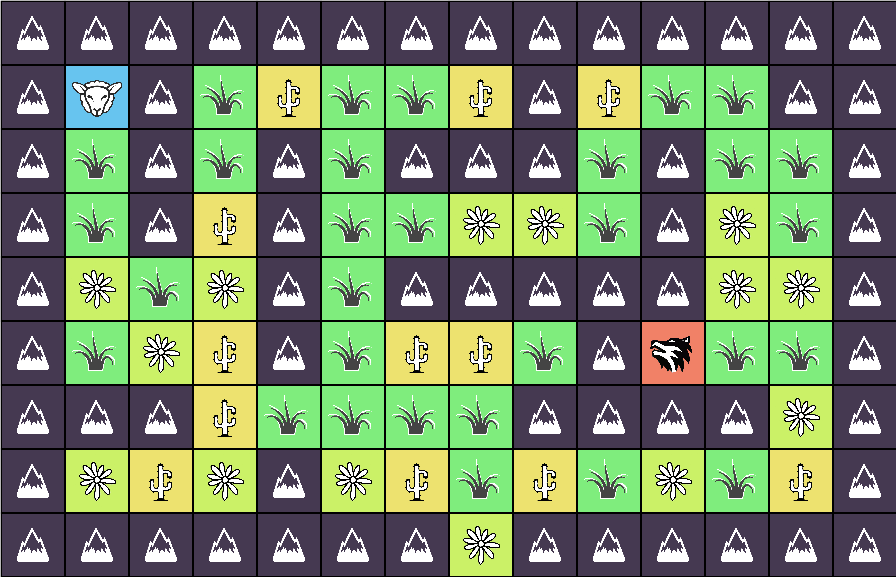
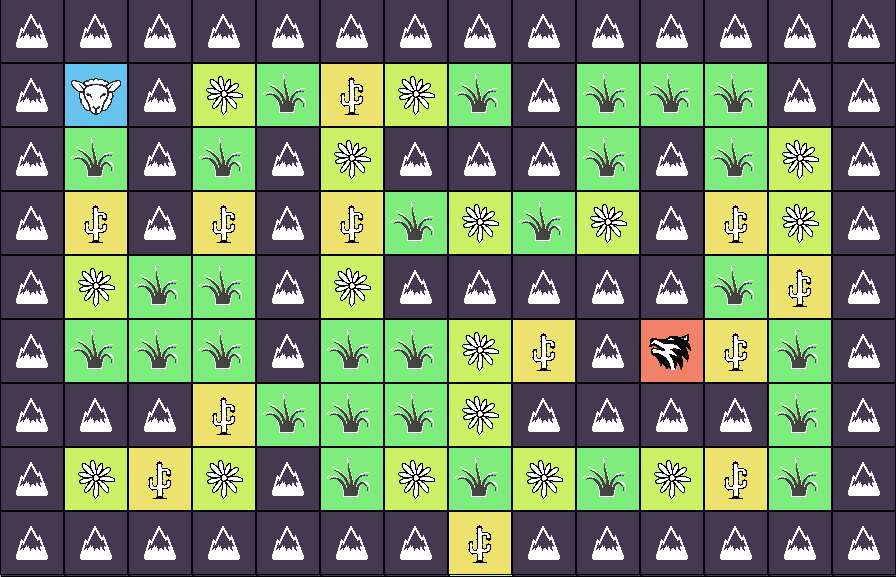
Version sae 202 : Ajout d'une nouvelle version de sauvegarde

diff --git a/src/main/java/jeu/AffichageJeu.java b/src/main/java/jeu/AffichageJeu.java
@@ -117,7 +117,7 @@ public class AffichageJeu extends Scene {
 
     }
 
-    public AffichageJeu(Stage stage, String adressePlateau){
+    public AffichageJeu(Stage stage, String adressePlateau, boolean sauvegardeVientDuFichierResources){
         super(new AnchorPane(), 1280,720);
         panneauTemporaire = (AnchorPane) getRoot();
         mainStage = stage;
@@ -127,8 +127,11 @@ public class AffichageJeu extends Scene {
         //On initie les actions utilisateurs
         controleur = new Controleur(this);
         try {
-            //this.controleur.jeu.reprendreSauvegarde(adressePlateau);
-            this.controleur.jeu.reprendreSauvegarde2(adressePlateau);
+            if (sauvegardeVientDuFichierResources){
+                this.controleur.jeu.reprendreSauvegardeViaFichierResources(adressePlateau);
+            } else {
+                this.controleur.jeu.reprendreSauvegarde(adressePlateau);
+            }
         } catch (IOException e) {
             String texte = "Erreur de lecture : "+"\n"+"" +
                     "Impossible de lire le fichier de sauvegarde.";

diff --git a/src/main/java/menuSelectionPlateau/SelectionControleur.java b/src/main/java/menuSelectionPlateau/SelectionControleur.java
@@ -54,7 +54,7 @@ public class SelectionControleur {
                 //Si l'utilisateur a ouvert un fichier
                 if (fichier != null){
                     //Affiche visuellement le plateau
-                    AffichageJeu affichageJeu = new AffichageJeu(stage,fichier.getAbsolutePath());
+                    AffichageJeu affichageJeu = new AffichageJeu(stage,fichier.getAbsolutePath(), false);
                     stage.setScene(affichageJeu);
                 }
 
@@ -68,7 +68,7 @@ public class SelectionControleur {
         l.setOnMouseClicked(new EventHandler<MouseEvent>() {
             @Override
             public void handle(MouseEvent mouseEvent) {
-                AffichageJeu affichageJeu = new AffichageJeu(stage,url);
+                AffichageJeu affichageJeu = new AffichageJeu(stage,url, true);
                 stage.setScene(affichageJeu);
             }
         });

diff --git a/src/main/java/jeu/Jeu.java b/src/main/java/jeu/Jeu.java
@@ -205,9 +205,9 @@ public class Jeu {
         }
     }
 
-    public void reprendreSauvegarde2(String adresse) throws Exception {
-        try (FileInputStream fileInputStream = new FileInputStream(getClass().getResource(adresse).toExternalForm());
-             ObjectInputStream objectInputStream = new ObjectInputStream(fileInputStream)) {
+    public void reprendreSauvegardeViaFichierResources(String adresse) throws Exception {
+        try (InputStream inputStream = getClass().getResourceAsStream(adresse);
+             ObjectInputStream objectInputStream = new ObjectInputStream(inputStream)) {
             int colonnes = objectInputStream.readInt();
             int lignes = objectInputStream.readInt();
             plateau = new Plateau(lignes,colonnes);
@@ -227,4 +227,6 @@ public class Jeu {
             throw new Exception("Autre erreur !");
         }
     }
+
+
 }
